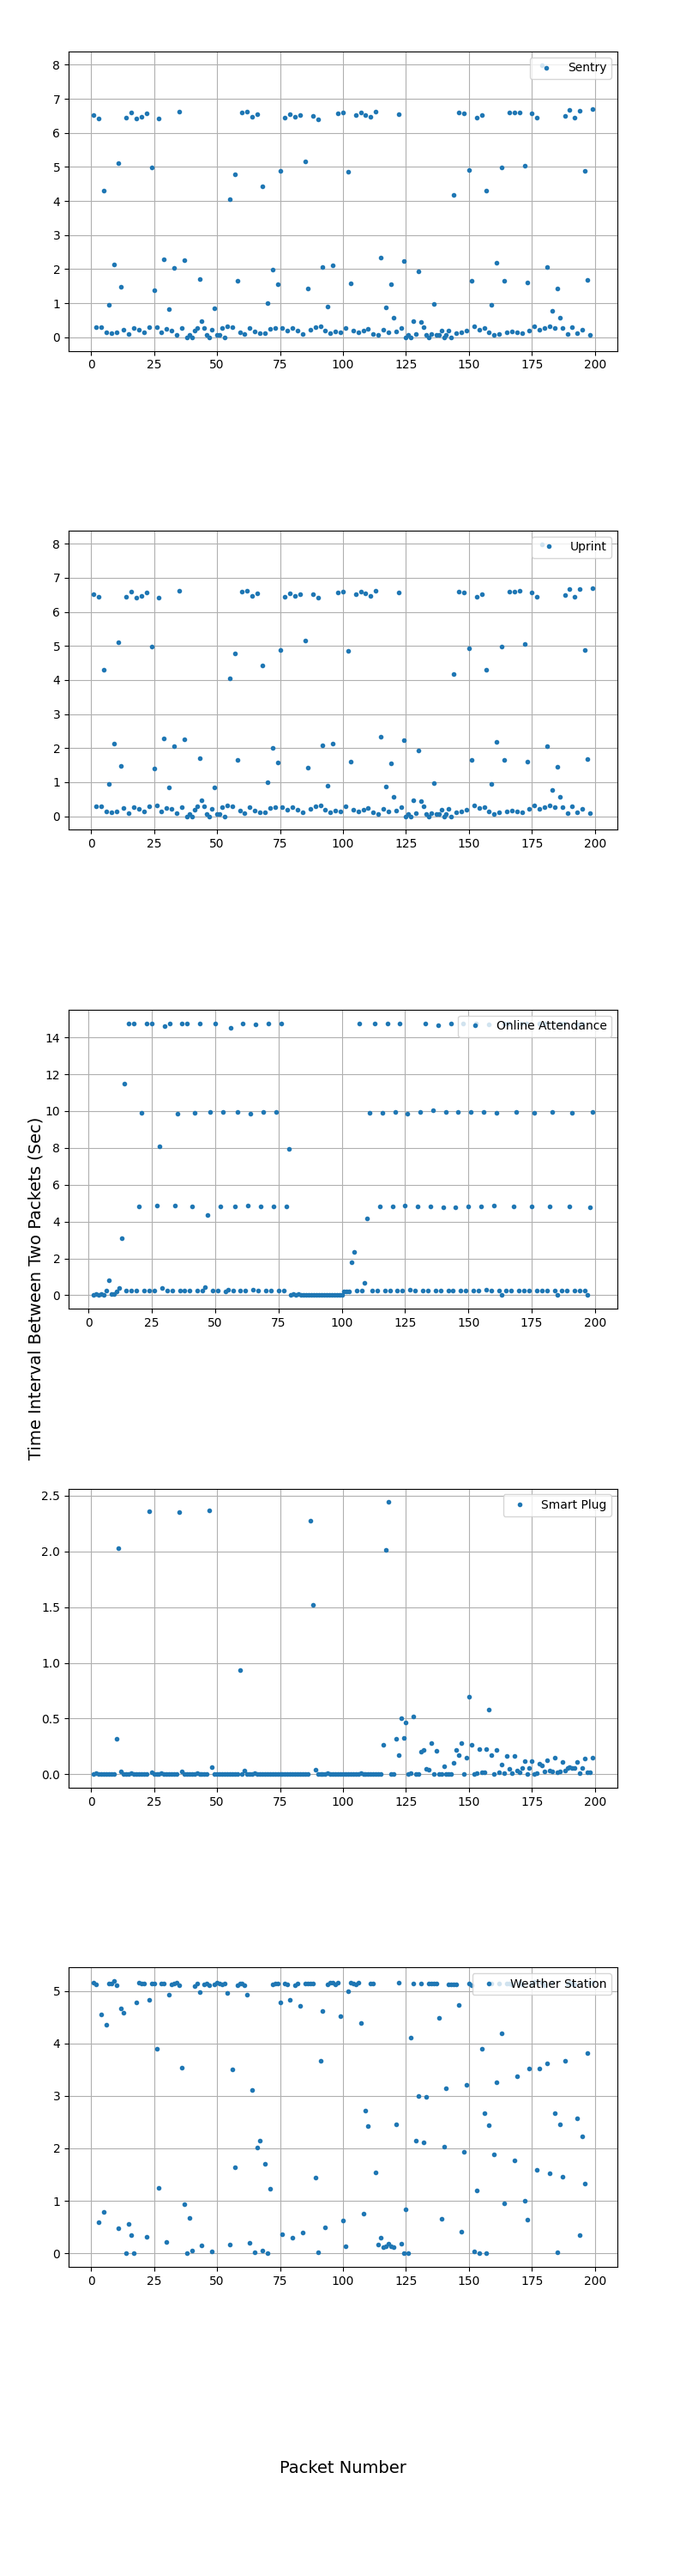
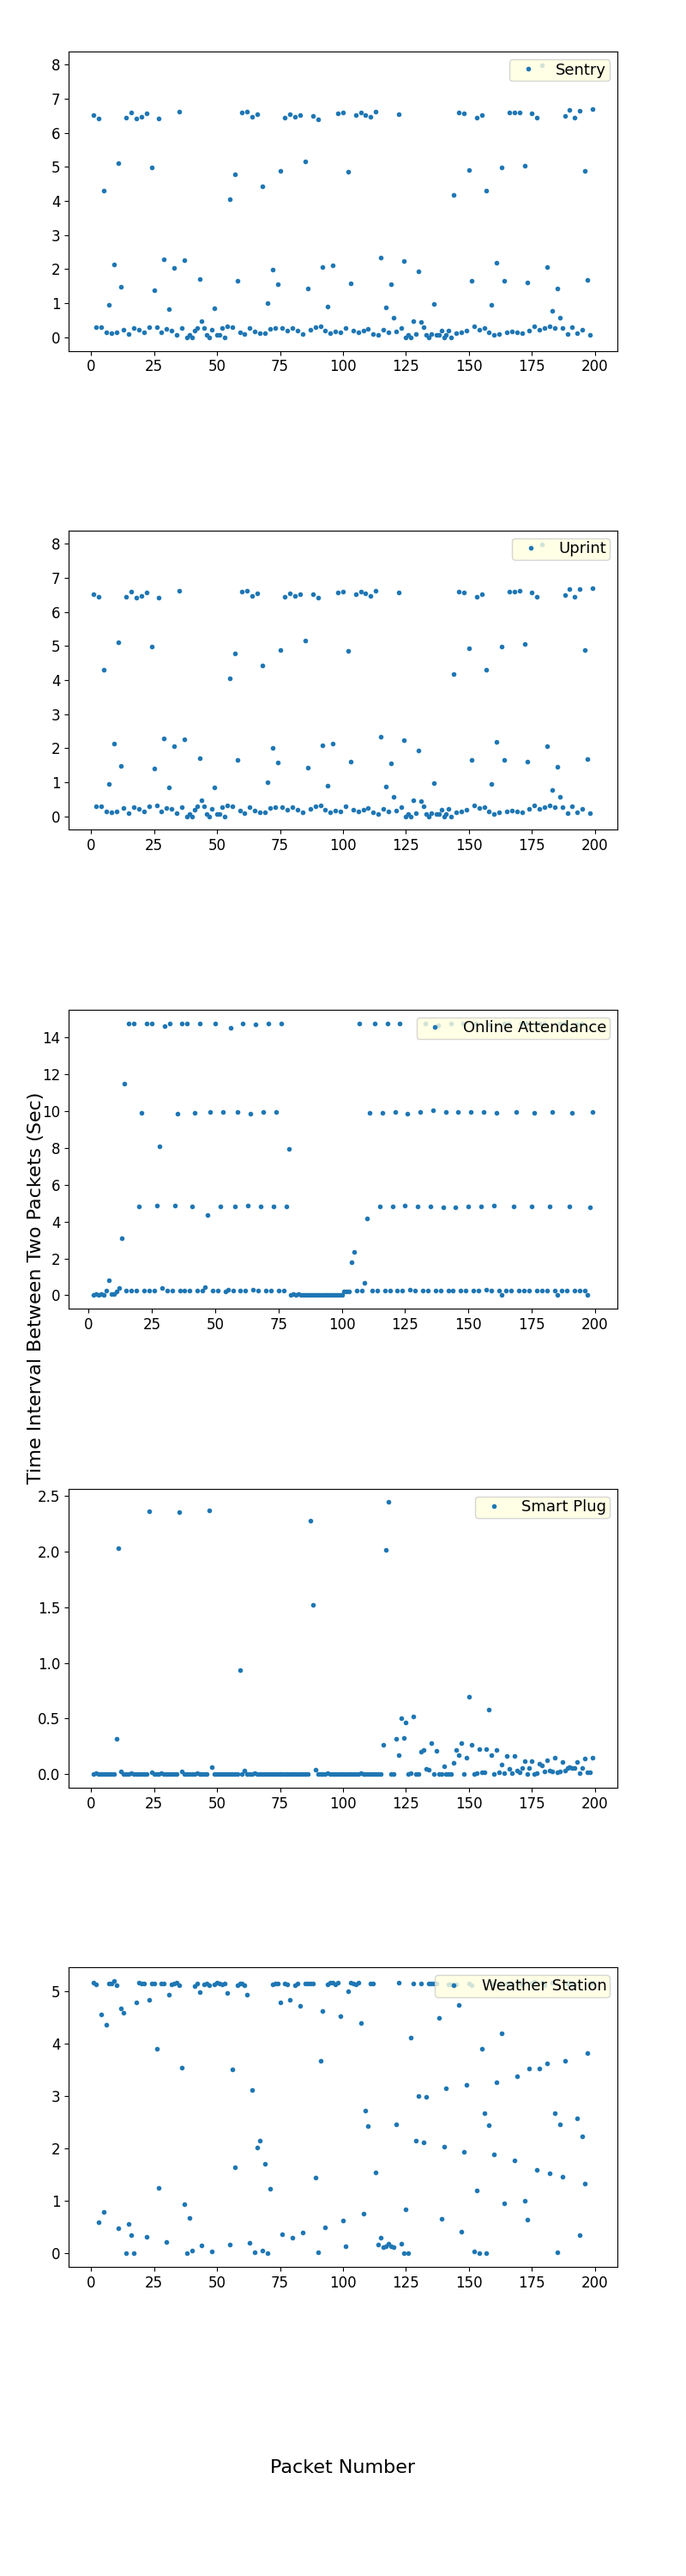
updated

diff --git a/deviceIdentificationWIn.py b/deviceIdentificationWIn.py
@@ -151,7 +151,7 @@ if __name__ == "__main__":
     ))
 
     # Load the test data (multi-device)
-    test_file_path = r"ThesisData\csv_files\AMCREST WIFI CAMERA BT_9c_8e_cd_1d_ab_9f.csv"
+    test_file_path = r"ThesisData\csv_files\dec_3_sentry_50_02_91_c9_4b_b5.csv"
 
      # File selection for test data
     # test_file_path = select_file()
@@ -219,14 +219,14 @@ if __name__ == "__main__":
                 bar.get_height(),                  # Place text just above the bar
                 f"{percentage:.2f}%",             # Format percentage with 2 decimal places
                 ha='center', va='bottom',         # Align text
-                fontsize=8, color='black', fontweight='bold'
+                fontsize=9, color='black', fontweight='bold'
             )
 
     plt.ylim(0, 104)
-    plt.title("Device Identification", fontsize=12)
-    plt.xlabel("IoT Device", fontsize=12)
-    plt.ylabel("Matching Percentage (%)", fontsize=12)
-    plt.xticks(rotation=90, fontsize=11)
+    plt.title("Device Identification", fontsize=14)
+    plt.xlabel("IoT Device", fontsize=13)
+    plt.ylabel("Matching Percentage (%)", fontsize=13)
+    plt.xticks(rotation=90, fontsize=12)
     plt.tight_layout()
     plt.grid(axis='y', linestyle='--', alpha=0.7)
     # plt.show()
@@ -246,8 +246,8 @@ if __name__ == "__main__":
     disp.plot(cmap='OrRd', xticks_rotation=90, ax=ax)
 
     # Customize font sizes for device names
-    plt.xticks(fontsize=10)  # Adjust x-axis label font size
-    plt.yticks(fontsize=10)  # Adjust y-axis label font size
+    plt.xticks(fontsize=12)  # Adjust x-axis label font size
+    plt.yticks(fontsize=12)  # Adjust y-axis label font size
 
     plt.title("Confusion Matrix")
     plt.tight_layout()  # Ensure labels fit within the plot
@@ -272,6 +272,6 @@ if __name__ == "__main__":
     # Add title and adjust layout
     plt.title("Classification Report", fontsize=14)
     plt.xticks(rotation=0, ha='right', fontsize=12)
-    plt.yticks(fontsize=10)
+    plt.yticks(fontsize=12)
     plt.tight_layout()
     plt.show()

diff --git a/time_intervals_plot.py b/time_intervals_plot.py
@@ -68,12 +68,20 @@ for i, (pcap_file, label) in enumerate(zip(pcap_files, device_labels)):
     # Plot the time intervals on the right
     ax = fig.add_subplot(grid[i])
     ax.plot(packet_numbers, time_intervals, marker='.', linestyle='', label=label)
-    ax.grid(True)
-    ax.legend(loc='upper right', fontsize=10)
+    ax.grid(False)
+
+    # Customize ticks for packet number (x-axis) and time interval (y-axis)
+    ax.tick_params(axis='x', labelsize=12, labelcolor='black')  # Change font size and color for x-axis (packet numbers)
+    ax.tick_params(axis='y', labelsize=12, labelcolor='black')  # Change font size and color for y-axis (time intervals)
+
+    legend=ax.legend(loc='upper right', fontsize=13, borderpad=0.2, labelspacing=0.2)
+
+    # Customize background and shape
+    legend.get_frame().set_facecolor('lightyellow')  # Change background color
 
 # Add X and Y labels centered for the entire plot
-fig.text(0.5, 0.04, 'Packet Number', ha='center', fontsize=14)
-fig.text(0.04, 0.5, 'Time Interval Between Two Packets (Sec)', va='center', rotation='vertical', fontsize=14)
+fig.text(0.5, 0.04, 'Packet Number', ha='center', fontsize=16)
+fig.text(0.04, 0.5, 'Time Interval Between Two Packets (Sec)', va='center', rotation='vertical', fontsize=16)
 
 # Adjust layout manually
 plt.subplots_adjust(left=0.1, right=0.9, top=0.98, bottom=0.12)
